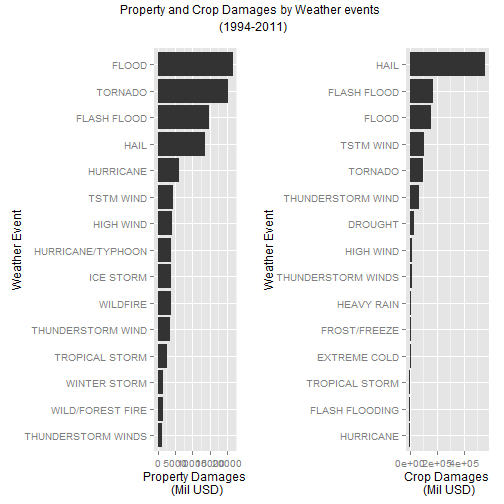
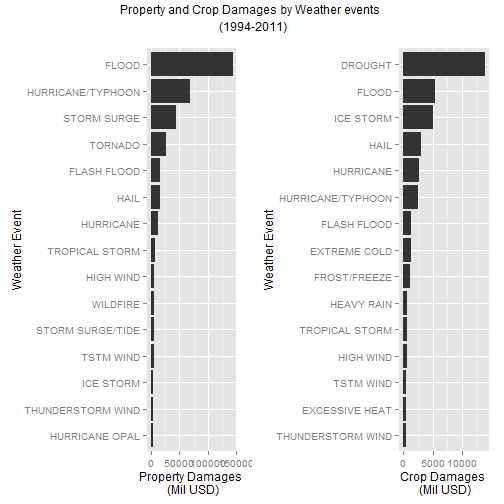
edit

Changed region(s): [[0.0298, 0.0893, 0.506, 0.9821], [0.5357, 0.0893, 0.9821, 0.9821]]

diff --git a/Storm.md b/Storm.md
@@ -5,7 +5,7 @@ output: html_document
 
 ###Synopsis: 
 
-This report analyze U.S. National Oceanic and Atmospheric Administration's (NOAA) storm data from 1994 - 2011. Storm Data is from the National Weather Service. In this peroid, the weather event that causes the most fatalities is Heat. Tornados ause the most injuries. I also found that tornados cause most of the property damages, at $1.4B, while hail cause the most damges to crops, at $6.5B. 
+This report analyze U.S. National Oceanic and Atmospheric Administration's (NOAA) storm data from 1994 - 2011. Storm Data is from the National Weather Service. In this peroid, the weather event that causes the most fatalities is Heat. Tornados ause the most injuries. I also found that flood cause most of the property damages, at $1.44B, while drought cause the most damges to crops, at $1.39B. 
 
 
 ###Date Processing:
@@ -72,7 +72,6 @@ Weather events and the associated property damage is analyzed. I performed data 
 d2_PROP<-select(d2, EVTYPE, PROPDMG, PROPDMGEXP)
 d3_PROP<-filter(d2_PROP, PROPDMGEXP == "M" | PROPDMGEXP == "m" | PROPDMGEXP == "B" | PROPDMGEXP == "b" | PROPDMGEXP == "K" | PROPDMGEXP == "k" )
 d3_PROP<- mutate(d3_PROP, PROPDMG2 = ifelse((PROPDMGEXP == 'B' | PROPDMGEXP=='b'), PROPDMG*1000, ifelse((PROPDMGEXP == 'K' | PROPDMGEXP=='k'), PROPDMG/1000, PROPDMG)))
-d3_PROP<- mutate(d3_PROP, PROPDMG2 = ifelse((PROPDMGEXP == 'K' | PROPDMGEXP=='k'), PROPDMG/1000, PROPDMG))
 ```
 Extracting the top 15 weather events that cause the most property damges:
 
@@ -90,8 +89,7 @@ Next, I analyze the events associated with the most crop damage using similar ap
 ```r
 d2_CROP<-select(d2, EVTYPE, CROPDMG, CROPDMGEXP)
 d3_CROP<-filter(d2_CROP, CROPDMGEXP == "M" | CROPDMGEXP == "m" | CROPDMGEXP == "B" | CROPDMGEXP == "b" | CROPDMGEXP == "K" | CROPDMGEXP == "k")
-d3_CROP<- mutate(d3_CROP, CROPDMG2 = ifelse((CROPDMGEXP == 'B' | CROPDMGEXP=='b'), CROPDMG*1000, CROPDMG))
-d3_CROP<- mutate(d3_CROP, CROPDMG2 = ifelse((CROPDMGEXP == 'B' | CROPDMGEXP=='b'), CROPDMG/1000, CROPDMG))
+d3_CROP<- mutate(d3_CROP, CROPDMG2 = ifelse((CROPDMGEXP == 'B' | CROPDMGEXP=='b'), CROPDMG*1000, ifelse((CROPDMGEXP == 'K' | CROPDMGEXP=='k'), CROPDMG/1000, CROPDMG)))
 ```
 
 To obtain the top 15 events that cause most crop damage:
@@ -186,22 +184,22 @@ PROP_DMG2
 ```
 ## Source: local data frame [15 x 2]
 ## 
-##                EVTYPE  PROPDMG2
-## 1               FLOOD 21802.109
-## 2             TORNADO 20325.668
-## 3         FLASH FLOOD 14717.393
-## 4                HAIL 13536.844
-## 5           HURRICANE  6168.519
-## 6           TSTM WIND  4484.273
-## 7           HIGH WIND  3968.239
-## 8   HURRICANE/TYPHOON  3871.340
-## 9           ICE STORM  3832.378
-## 10           WILDFIRE  3726.154
-## 11  THUNDERSTORM WIND  3480.404
-## 12     TROPICAL STORM  2558.536
-## 13       WINTER STORM  1560.097
-## 14   WILD/FOREST FIRE  1503.330
-## 15 THUNDERSTORM WINDS  1300.254
+##               EVTYPE   PROPDMG2
+## 1              FLOOD 144179.609
+## 2  HURRICANE/TYPHOON  69305.840
+## 3        STORM SURGE  43193.536
+## 4            TORNADO  25620.368
+## 5        FLASH FLOOD  15716.393
+## 6               HAIL  15335.044
+## 7          HURRICANE  11862.819
+## 8     TROPICAL STORM   7703.386
+## 9          HIGH WIND   5266.939
+## 10          WILDFIRE   4765.114
+## 11  STORM SURGE/TIDE   4641.188
+## 12         TSTM WIND   4484.273
+## 13         ICE STORM   3832.378
+## 14 THUNDERSTORM WIND   3480.404
+## 15    HURRICANE OPAL   3172.846
 ```
 Top 15 events that cause most crop damage:
 
@@ -212,22 +210,22 @@ CROP_DMG2
 ```
 ## Source: local data frame [15 x 2]
 ## 
-##                EVTYPE  CROPDMG2
-## 1                HAIL 561292.93
-## 2         FLASH FLOOD 170534.86
-## 3               FLOOD 157866.88
-## 4           TSTM WIND 109192.60
-## 5             TORNADO  96679.72
-## 6   THUNDERSTORM WIND  66781.45
-## 7             DROUGHT  33347.12
-## 8           HIGH WIND  17273.21
-## 9  THUNDERSTORM WINDS  15295.13
-## 10         HEAVY RAIN  11122.80
-## 11       FROST/FREEZE   7034.14
-## 12       EXTREME COLD   6121.14
-## 13     TROPICAL STORM   5394.12
-## 14     FLASH FLOODING   5076.05
-## 15          HURRICANE   4839.31
+##               EVTYPE   CROPDMG2
+## 1            DROUGHT 13922.0660
+## 2              FLOOD  5506.9424
+## 3          ICE STORM  5022.1135
+## 4               HAIL  2982.6991
+## 5          HURRICANE  2741.4100
+## 6  HURRICANE/TYPHOON  2607.8728
+## 7        FLASH FLOOD  1402.6615
+## 8       EXTREME COLD  1292.9730
+## 9       FROST/FREEZE  1094.0860
+## 10        HEAVY RAIN   733.3998
+## 11    TROPICAL STORM   677.8410
+## 12         HIGH WIND   633.5663
+## 13         TSTM WIND   553.9973
+## 14    EXCESSIVE HEAT   492.4020
+## 15 THUNDERSTORM WIND   414.8331
 ```
 These data are plotted as follows
 
@@ -240,5 +238,5 @@ grid.arrange(g_prop,g_crop, nrow = 1, top="Property and Crop Damages by Weather 
 
 ![plot of chunk unnamed-chunk-16](figure/unnamed-chunk-16-1.png) 
 
-Tornado causes the most property damages. Hail causes the most damages to crops.
+Flood causes the most property damages. Drought causes the most damages to crops.
 
